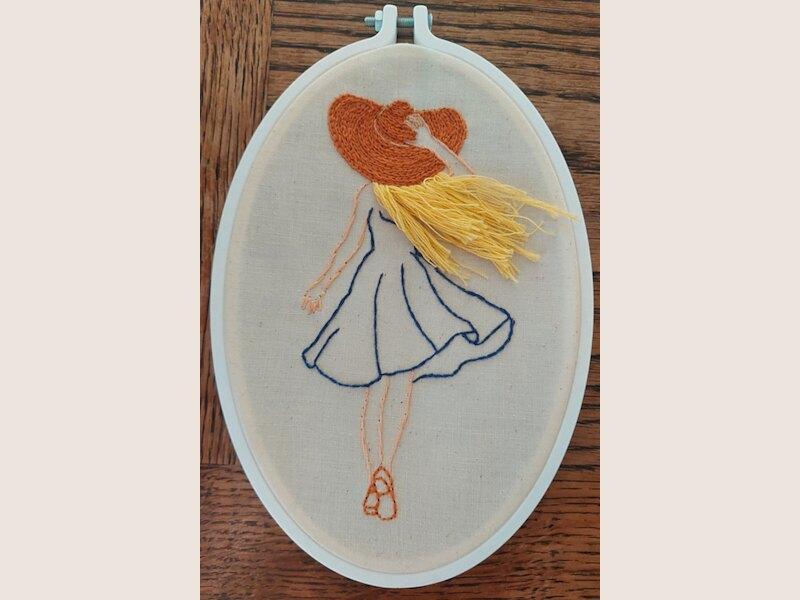
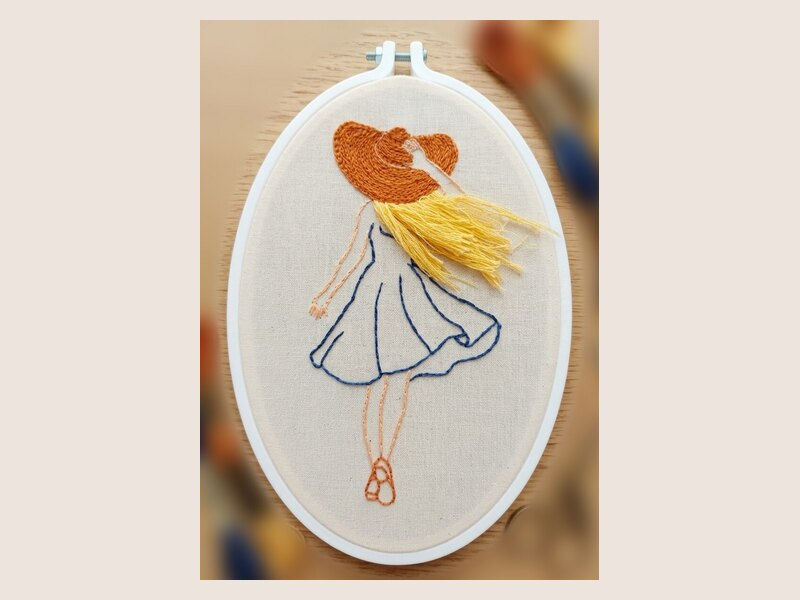
La fille aux cheveux : photo mise en scène en principale, photo réelle en galerie
Fond flouté hors de l'ovale (étiquettes d'écheveaux illisibles), photo
réelle conservée en 2e position.

Claude-Session: https://claude.ai/code/session_015QeqxFQgaAZggYLjUjAvWV

diff --git a/components/catalog.js b/components/catalog.js
@@ -175,10 +175,13 @@ const LPS_CATALOG = {
       hoopColors: "all",
       label: "La fille aux cheveux",
       tag: { icon: "✨", text: "Cheveux en relief" },
-      image: "./images/atelier-fille-cheveux.jpg",
+      image: "./images/atelier-fille-cheveux-scene.jpg",
       thumb: "./images/thumbs/atelier-fille-cheveux.jpg",
       imageAlt: "Broderie sur cercle ovale : silhouette en robe bleue au vent, grand chapeau roux et longs cheveux dorés en fils libres",
-      gallery: [{ src: "./images/atelier-fille-cheveux.jpg", alt: "La fille aux cheveux, broderie sur cercle ovale", rotation: 0 }],
+      gallery: [
+        { src: "./images/atelier-fille-cheveux-scene.jpg", alt: "La fille aux cheveux, mise en scène", rotation: 0 },
+        { src: "./images/atelier-fille-cheveux.jpg", alt: "La fille aux cheveux, photo réelle sur cercle ovale", rotation: 0 },
+      ],
       description: "Brodez des cheveux en fils libres qui s'envolent au vent : une technique toute simple pour donner du relief et du mouvement à votre broderie.",
       delays: "kit 48 h ouvrées · broderie finie 5 à 8 jours",
       formats: ["kit", "fini"],
